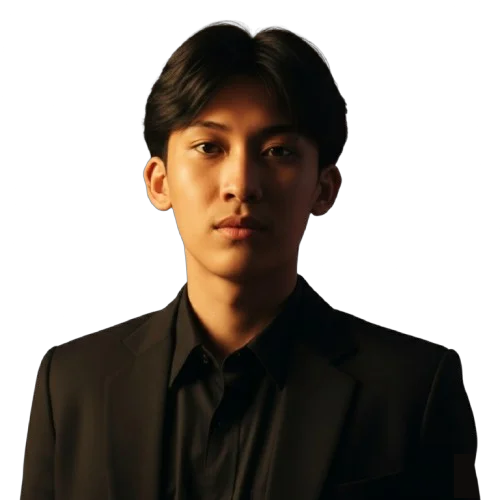
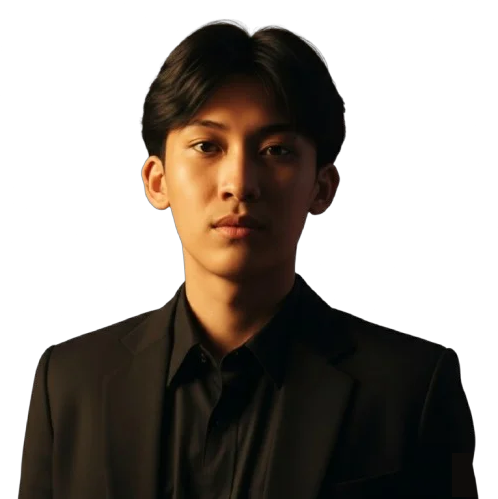
fix(hero): increase mobile portrait stage height so Mitch-NoBG fills mobile viewport cleanly

diff --git a/src/components/Hero/Hero.css b/src/components/Hero/Hero.css
@@ -723,8 +723,8 @@
   }
 
   .hero-portrait-stage {
-    height: clamp(340px, 46vh, 500px);
-    max-height: 52vh;
+    height: clamp(380px, 50vh, 520px);
+    max-height: 56vh;
     width: auto;
     margin: 0 auto;
     transform: none;
@@ -906,8 +906,8 @@
   }
 
   .hero-portrait-stage {
-    height: clamp(260px, 38vh, 360px);
-    max-height: 42vh;
+    height: clamp(320px, 46vh, 420px);
+    max-height: 50vh;
   }
 
   .hero-monumental-name {
@@ -935,12 +935,12 @@
   }
 
   .hero-center-stage {
-    min-height: 310px;
+    min-height: 360px;
   }
 
   .hero-portrait-stage {
-    height: 300px;
-    max-height: 40vh;
+    height: clamp(350px, 46vh, 410px);
+    max-height: 48vh;
   }
 
   .hero-monumental-name {
